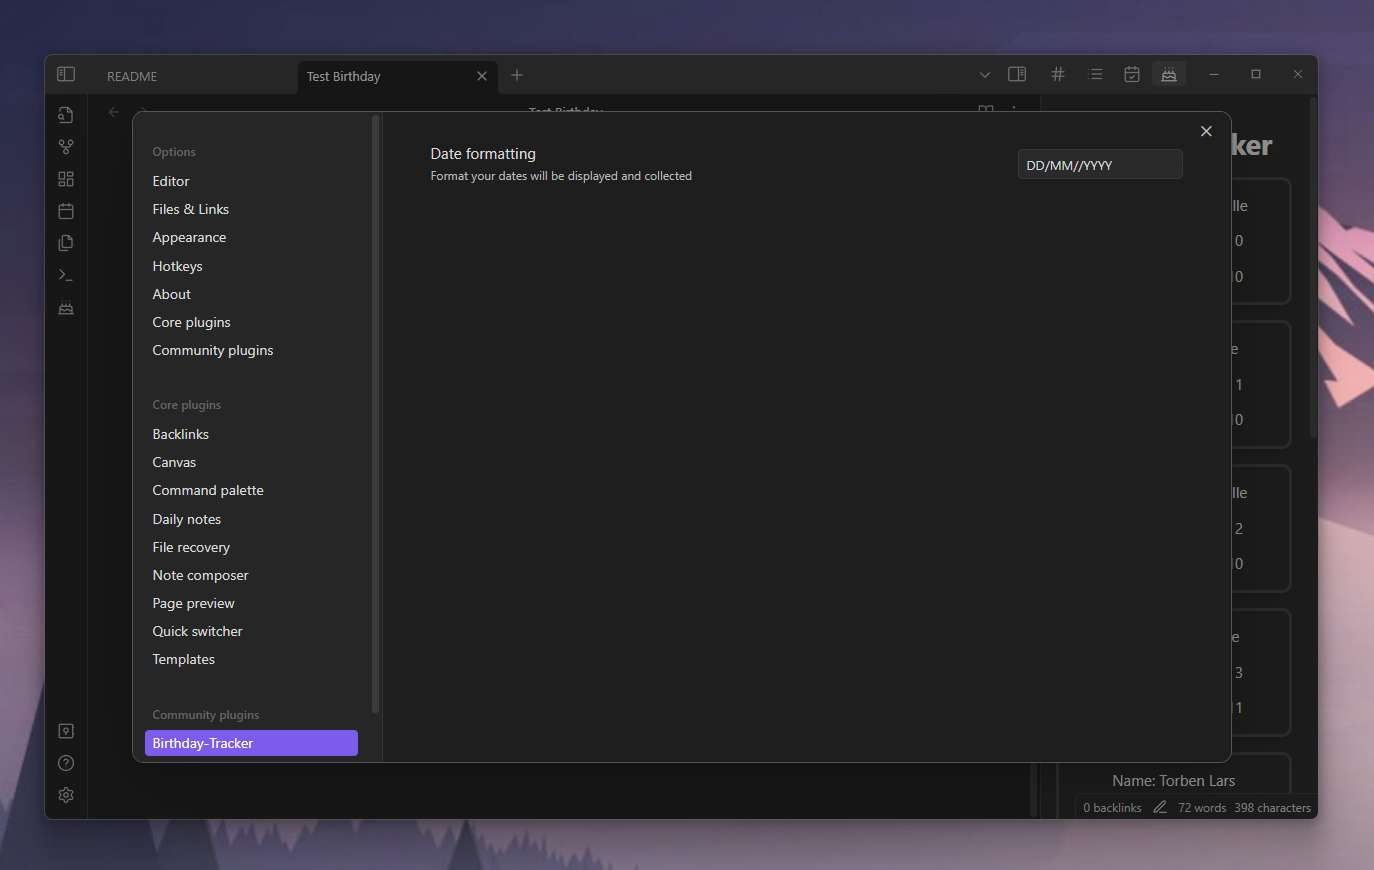
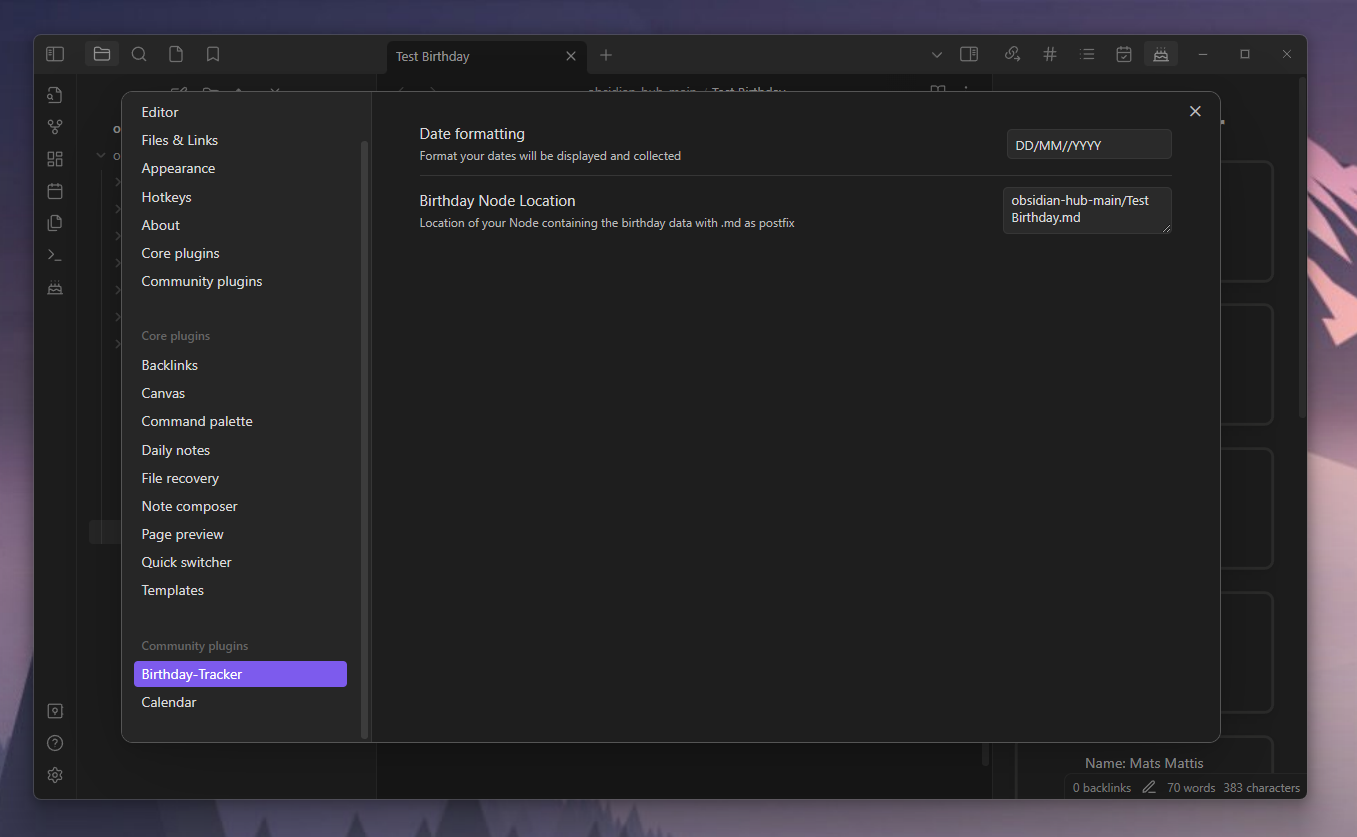
updated images and doc

diff --git a/README.md b/README.md
@@ -2,11 +2,11 @@
 
 This plugin allows you to keep track of all birthdays of your family and friends.
 
-![Demo image](assets/demoImage.png)
+![Demo image](assets/demoPlugin.png)
 
 ## Using
 You need a file containing all the birthday data.
-To find this file it needs to contain the text ``BIRTHDAY_FILE``. After that you can add your persons with: \
+To find this file you need to add the location in the settings. After that you can add your persons with: \
 ``name=<name of the person>; birthday=<date of their birth>`` \
 For example: ``name=Peter Rudolf; birthday=17/08/2033``.
 You need the add all those persons line after line:
@@ -20,6 +20,6 @@ After that you can click on the ribbon icon or use the command to trigger the pl
 You will receive a notice for all persons who have birthday today and get in a separate view an overview over all persons sorted by their next birthday.
 
 ## Settings
-You can set a date formatting. The default is: ``DD/MM/YYYY``. This is needed to collect your dates and display them.
+You can set a date formatting. The default is: ``DD/MM/YYYY``. This is needed to collect your dates and display them. Also you can set the location of the file containing the birthday data. This must include `.md` as postfix. The default value is: `birthdayNode.md`
 
 ![Demo settings](assets/demoSettings.png)
